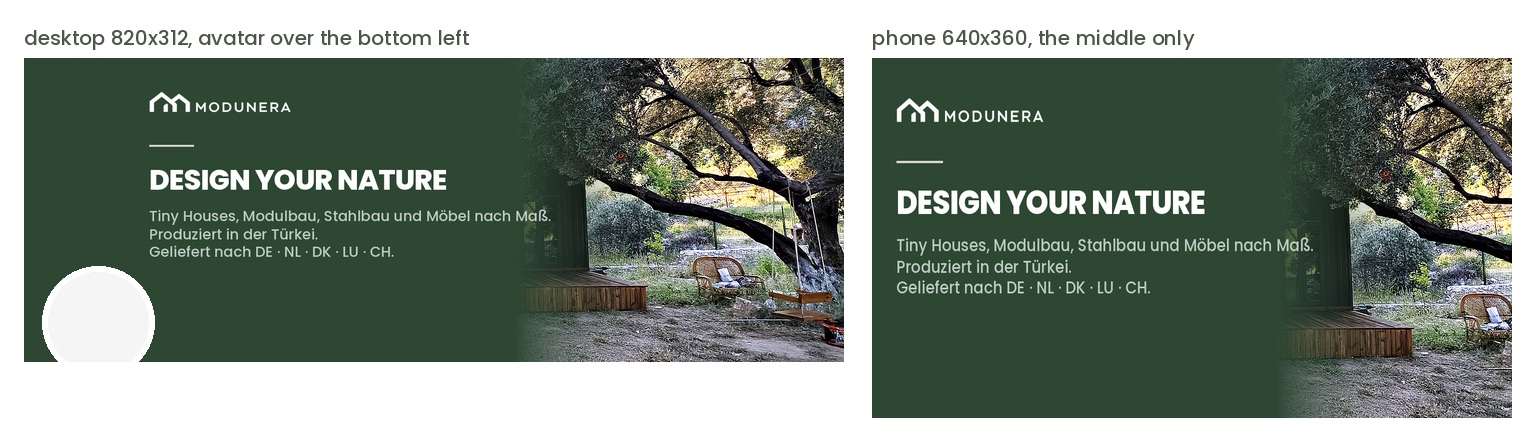
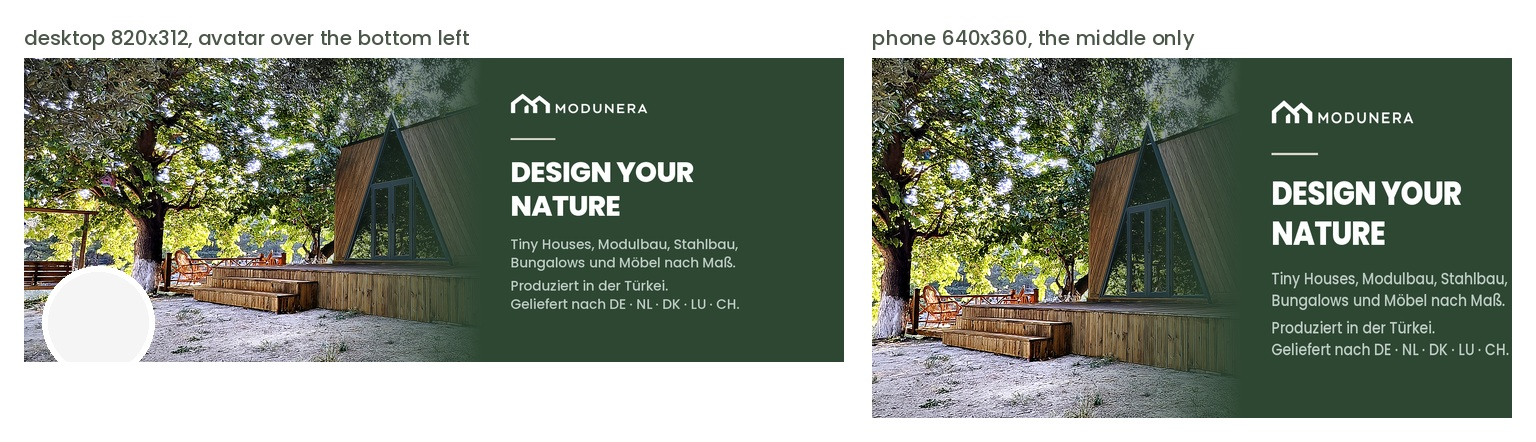
social: rebuild the Facebook cover on a photograph that shows the house
The first one failed for a plain reason: at 2.7:1 the olive-grove frame shrank the
A-frame into a wall of foliage and the cover read as trees. This frame puts the
house across the centre with the deck running the full width.

The panel moved to the right. It was on the left, which is where the subject is in
this photograph — a left panel wide enough to carry type buried the house and left
only the dark cladding at its far end showing. The picture is what has to be seen;
the type goes where the picture is quiet.

Line lengths are measured against the phone crop rather than chosen. At 30 px the
two longest ran to 1516 and 1511, past the 1491 a phone shows — 28 px clears it by
eight. The check caught that before the render did.

And a glyph check, added to the shared library rather than to this file. Pillow
does not complain about a character it has no glyph for; it draws an empty box and
the render completes and gets published. That has now happened twice — "TÜRKİYE"
losing its dotted capital I to a latin-only subset, and an arrow between the origin
and the markets coming out as a box here. Both were caught by looking, which is
not a method. The fonts' own cmaps are read, so replacing a face re-answers the
question by itself, and any build that calls it fails rather than shipping a box.
The arrow is gone; two plain lines say the same thing and say it in German.

diff --git a/tools/social/build_facebook_cover.py b/tools/social/build_facebook_cover.py
@@ -41,11 +41,23 @@ PHONE = (211, 0, 1491, H)               # the middle 1280 px
 # cover's bottom edge, about 16 px in from the left of an 820-wide display. At
 # this file's scale that is the corner below — nothing legible goes in it.
 AVATAR = (0, 428, 400, H)
-PANEL = 1020                            # the green panel's right edge, before the fade
-FADE = 260                              # how far the photograph dissolves into it
-TEXT_X = 260                            # inside the phone crop, right of its left edge
+# The panel sits on the RIGHT. It was on the left, and it covered the subject: in
+# this frame the A-frame is left of centre, so a left panel wide enough to carry
+# type buried the house and left only the dark cladding at its far end showing.
+# The photograph is what has to be seen; the type goes where the picture is quiet.
+PANEL = 950                             # the panel's left edge, before the fade
+FADE = 420                              # a long dissolve leftward, so the join is not an edge
+TEXT_X = 1010
+# Measured against the phone crop rather than chosen: at 30 px the two longest
+# lines ran to 1516 and 1511, past the 1491 the phone shows. 28 clears it by 8.
+BODY = 28
 
-PHOTO = "IMG_20250519_183120.jpg"       # the A-frame in the olive grove, 1.94:1
+# The olive-grove frame was here and it was the wrong picture for this shape: at
+# 2.7:1 the house shrank into a wall of foliage and the cover read as trees. This
+# one puts the A-frame across the centre with the deck running the full width, and
+# its left third is dark canopy already — which is where the panel goes, so the
+# join lands on foliage rather than cutting across the building.
+PHOTO = "IMG_20250519_182528.jpg"
 LOOK = dict(warmth=1.02, lift=0.03, contrast=1.16, saturation=0.94)
 
 
@@ -64,7 +76,7 @@ def build() -> Image.Image:
     # The photograph fills the whole frame; the panel is laid over its left. A
     # half-width photograph would have to be cropped to 1.3:1 and this frame is
     # 1.94:1 — cropping it that hard is what cost the website's hero its roofline.
-    photo = g.cover(im, W, H, 0.52)
+    photo = g.cover(im, W, H, 0.46)
     photo = g.grade(photo, **LOOK)
     reduction = max(src_w / W, src_h / H)
     photo = g.sharpen(photo, amount=min(1.20, 0.72 + 0.28 * reduction),
@@ -74,10 +86,10 @@ def build() -> Image.Image:
     # so the join is a dissolve rather than a seam.
     mask = Image.new("L", (W, 1), 0)
     for x in range(W):
-        if x <= PANEL:
+        if x >= PANEL:
             mask.putpixel((x, 0), 255)
-        elif x <= PANEL + FADE:
-            t = 1 - (x - PANEL) / FADE
+        elif x >= PANEL - FADE:
+            t = 1 - (PANEL - x) / FADE
             mask.putpixel((x, 0), int(255 * (t ** 1.4)))
     canvas = photo.copy()
     canvas.paste(Image.new("RGB", (W, H), g.MOSS_DEEP), (0, 0), mask.resize((W, H)))
@@ -88,16 +100,20 @@ def build() -> Image.Image:
 # Where each piece of type goes. Declared once so the drawing and the mask that
 # measures the ground under it cannot drift apart — the same arrangement the post
 # renderer uses, and for the same reason.
-SLOGAN = dict(xy=(TEXT_X, 212), text="DESIGN YOUR NATURE", size=58, colour=g.WHITE)
+SLOGAN = dict(xy=(TEXT_X, 196), text="DESIGN YOUR", size=58, colour=g.WHITE)
+SLOGAN2 = dict(xy=(TEXT_X, 266), text="NATURE", size=58, colour=g.WHITE)
 # Three short lines rather than two long ones. The second of the two ran past the
 # panel into the photograph, where white type has nothing to sit on — and it was
 # only visible in the phone crop, because on the desktop crop the fade is far
 # enough right to look deliberate.
-LINES = [(TEXT_X, 306, "Tiny Houses, Modulbau, Stahlbau und Möbel nach Maß."),
-         (TEXT_X, 344, "Produziert in der Türkei."),
-         (TEXT_X, 380, "Geliefert nach DE · NL · DK · LU · CH.")]
-LOGO_XY, LOGO_W = (TEXT_X, 70), 300
-RULE = (TEXT_X, 180, TEXT_X + 92, 183)
+# Short lines: the panel is 632 px of usable width, and the long single line that
+# fitted a full-width panel would now run off the frame.
+LINES = [(TEXT_X, 366, "Tiny Houses, Modulbau, Stahlbau,"),
+         (TEXT_X, 404, "Bungalows und Möbel nach Maß."),
+         (TEXT_X, 452, "Produziert in der Türkei."),
+         (TEXT_X, 490, "Geliefert nach DE · NL · DK · LU · CH.")]
+LOGO_XY, LOGO_W = (TEXT_X, 74), 290
+RULE = (TEXT_X, 166, TEXT_X + 92, 169)
 
 
 def line_masks() -> list[tuple[str, Image.Image]]:
@@ -111,13 +127,14 @@ def line_masks() -> list[tuple[str, Image.Image]]:
     this codebase. Measure the smallest thing that can fail on its own.
     """
     out = []
-    m = Image.new("L", (W, H), 0)
-    g.tracked(ImageDraw.Draw(m), SLOGAN["xy"], SLOGAN["text"],
-              g.F_TITLE(SLOGAN["size"]), 255, tracking=-SLOGAN["size"] * 0.021)
-    out.append(("slogan", m))
+    for n, spec in (("slogan 1", SLOGAN), ("slogan 2", SLOGAN2)):
+        m = Image.new("L", (W, H), 0)
+        g.tracked(ImageDraw.Draw(m), spec["xy"], spec["text"],
+                  g.F_TITLE(spec["size"]), 255, tracking=-spec["size"] * 0.021)
+        out.append((n, m))
     for i, (x, y, text) in enumerate(LINES):
         m = Image.new("L", (W, H), 0)
-        ImageDraw.Draw(m).text((x, y), text, font=g.F_BODY(30), fill=255)
+        ImageDraw.Draw(m).text((x, y), text, font=g.F_BODY(BODY), fill=255)
         out.append((f"line {i + 1}", m))
     return out
 
@@ -140,10 +157,11 @@ def draw_type(canvas: Image.Image, mask_only: bool = False) -> Image.Image:
         canvas.paste(logo, LOGO_XY, logo)
         d.rectangle(list(RULE), fill=g.CREAM)
 
-    g.tracked(d, SLOGAN["xy"], SLOGAN["text"], g.F_TITLE(SLOGAN["size"]),
-              ink or SLOGAN["colour"], tracking=-SLOGAN["size"] * 0.021)
+    for spec in (SLOGAN, SLOGAN2):
+        g.tracked(d, spec["xy"], spec["text"], g.F_TITLE(spec["size"]),
+                  ink or spec["colour"], tracking=-spec["size"] * 0.021)
     for x, y, text in LINES:
-        d.text((x, y), text, font=g.F_BODY(30), fill=ink or g.ON_MOSS)
+        d.text((x, y), text, font=g.F_BODY(BODY), fill=ink or g.ON_MOSS)
     return target
 
 
@@ -186,6 +204,11 @@ def check(bare: Image.Image, mask: Image.Image) -> list[str]:
         problems.append(f"type spans x {x0}-{x1}, outside the phone crop {PHONE[0]}-{PHONE[2]}")
     if x0 < AVATAR[2] and y1 > AVATAR[1]:
         problems.append(f"type reaches y {y1}; the profile picture covers from {AVATAR[1]} down")
+
+    for text in [SLOGAN["text"], SLOGAN2["text"]] + [t for _, _, t in LINES]:
+        gone = g.missing_glyphs(text)
+        if gone:
+            problems.append(f"no glyph for {' '.join(gone)} in {text!r}")
 
     for name, m in line_masks():
         v = g.luma_under(bare, m)

diff --git a/tools/social/build_instagram_grid.py b/tools/social/build_instagram_grid.py
@@ -186,6 +186,29 @@ F_BODY = lambda s: font("Poppins-Medium.ttf", s)       # 500, as body copy is
 F_LABEL = lambda s: font("Poppins-ExtraBold.ttf", s)   # 800, as .eyebrow is
 
 
+_CMAP: dict = {}
+
+
+def missing_glyphs(text: str) -> list[str]:
+    """Characters the committed fonts cannot draw.
+
+    Pillow does not complain about a character it has no glyph for — it draws
+    .notdef, an empty box, and the render completes and gets published. It has
+    happened twice: "TÜRKİYE" lost its dotted capital I to a latin-only subset,
+    and an arrow between the origin and the markets came out as a box on a
+    Facebook cover. Both were caught by looking, which is not a method.
+
+    Checked against the font files rather than against a list of what they were
+    expected to contain, so replacing a face re-answers the question by itself.
+    """
+    if not _CMAP:
+        from fontTools.ttLib import TTFont
+        for f in sorted(FONTS.glob("*.ttf")):
+            _CMAP[f.name] = set(TTFont(str(f)).getBestCmap())
+    common = set.intersection(*_CMAP.values()) if _CMAP else set()
+    return sorted({c for c in text if ord(c) not in common and c not in "\n\t"})
+
+
 def strip_camera_watermark(im: Image.Image) -> tuple[Image.Image, int]:
     """Remove the phone's burnt-in branding strip from the foot of the frame.
 
